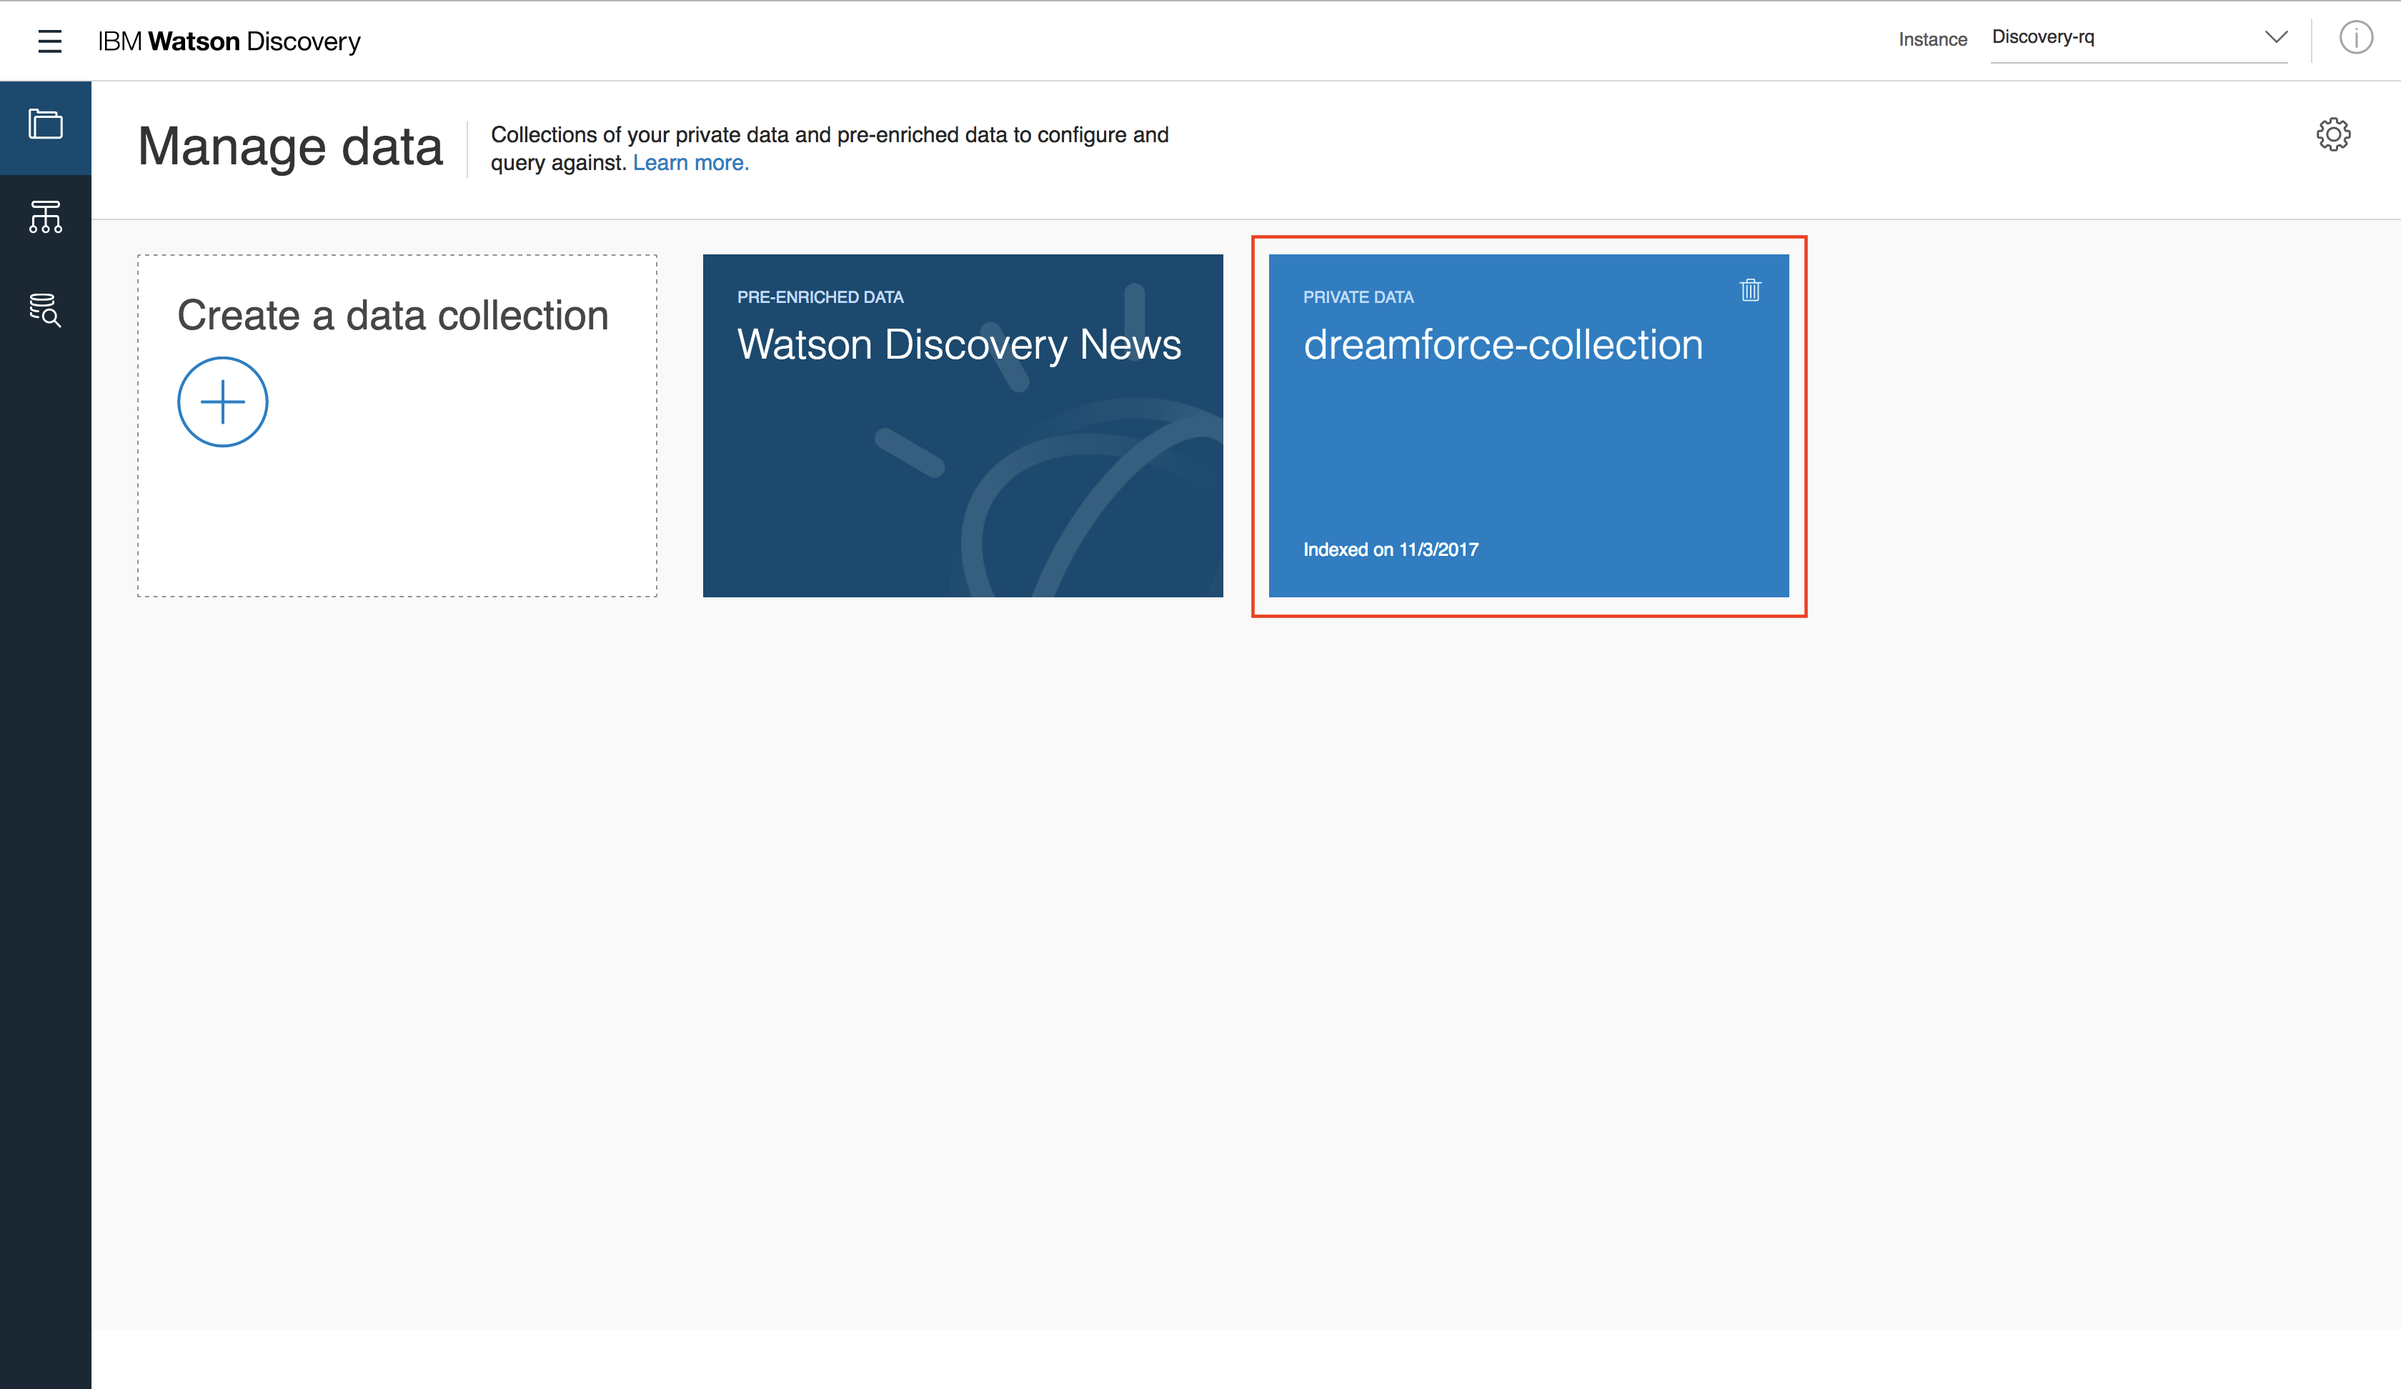
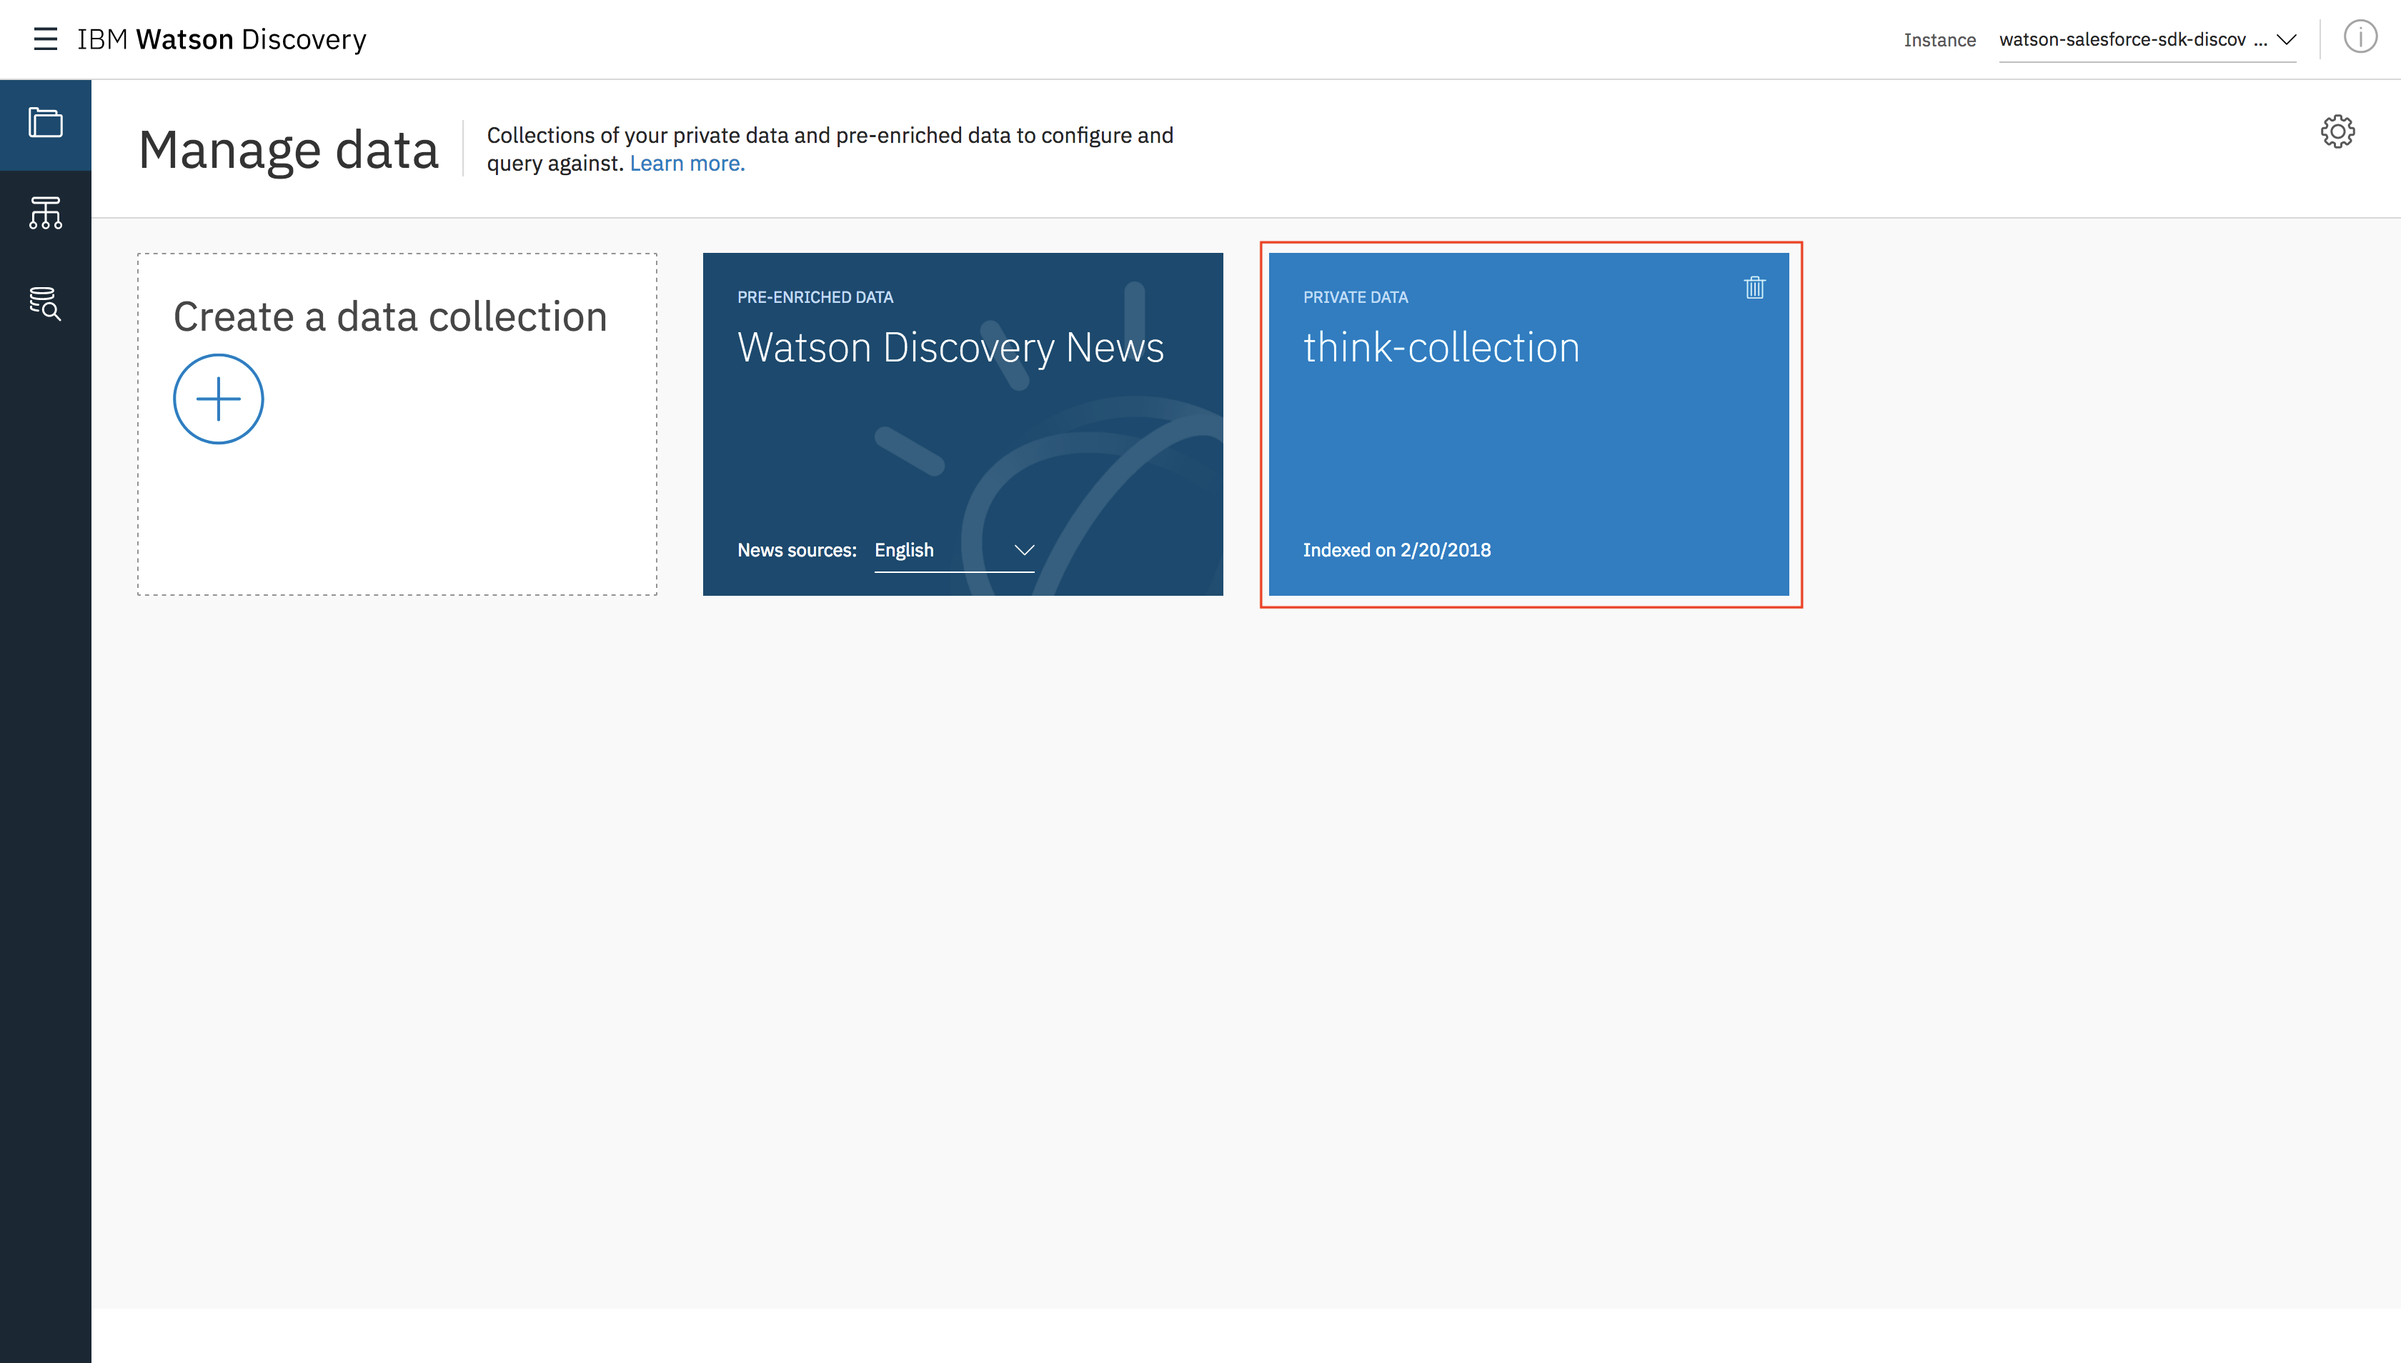
Update references to Dreamforce 2017

diff --git a/examples/discovery/sample_documents/niel_degrasse_tyson.html b/examples/discovery/sample_documents/niel_degrasse_tyson.html
@@ -1,0 +1,8 @@
+<html>
+  <title>
+    Neil deGrasse Tyson
+  </title>
+  <p>
+      Neil deGrasse Tyson (/dəˈɡræs/; born October 5, 1958) is an American astrophysicist, author, and science communicator. Since 1996, he has been the Frederick P. Rose Director of the Hayden Planetarium at the Rose Center for Earth and Space in New York City. The center is part of the American Museum of Natural History, where Tyson founded the Department of Astrophysics in 1997 and has been a research associate in the department since 2003. Born and raised in New York City, Tyson became interested in astronomy at the age of nine after a visit to the Hayden Planetarium. After graduating from the Bronx High School of Science, where he was editor-in-chief of the Physical Science Journal, he completed a bachelor's degree in physics at Harvard University in 1980. After receiving a master's degree in astronomy at the University of Texas at Austin in 1983, he earned his master's (1989) and doctorate (1991) in astrophysics at Columbia University. For the next three years, he was a postdoctoral research associate at Princeton University. In 1994, he joined the Hayden Planetarium as a staff scientist and the Princeton faculty as a visiting research scientist and lecturer. In 1996, he became director of the planetarium and oversaw its $210-million reconstruction project, which was completed in 2000. From 1995 to 2005, Tyson wrote monthly essays in the "Universe" column for Natural History magazine, some of which were later published in his books Death by Black Hole (2007) and Astrophysics for People in a Hurry (2017). During the same period, he wrote a monthly column in Star Date magazine, answering questions about the universe under the pen name "Merlin". Material from the column appeared in his books Merlin's Tour of the Universe (1998) and Just Visiting This Planet (1998). Tyson served on a 2001 government commission on the future of the U.S. aerospace industry, and on the 2004 Moon, Mars and Beyond commission. He was awarded the NASA Distinguished Public Service Medal in the same year. From 2006 to 2011, he hosted the television show NOVA ScienceNow on PBS. Since 2009, Tyson hosted the weekly podcast StarTalk. A spin-off, also called StarTalk, began airing on National Geographic in 2015. In 2014, he hosted the television series Cosmos: A Spacetime Odyssey, a successor to Carl Sagan's 1980 series Cosmos: A Personal Voyage.[1] The U.S. National Academy of Sciences awarded Tyson the Public Welfare Medal in 2015 for his "extraordinary role in exciting the public about the wonders of science".[2]
+  </p>
+</html>

diff --git a/examples/discovery/sample_documents/ginni_rometty.html b/examples/discovery/sample_documents/ginni_rometty.html
@@ -1,20 +1,8 @@
 <html>
-<title>
-  Ginni Rometty
-</title>
-<h1>
-  Chairman, President & CEO, IBM
-</h1>
-<p>
-  Ginni Rometty began her career with IBM in 1981 in Detroit. Since then she has held a series of leadership positions, most
-  recently as senior vice president and group executive, IBM sales, marketing, and strategy. Earlier she served as senior
-  vice president, IBM Global Business Services, where she led the successful integration of PricewaterhouseCoopers Consulting.
-  This acquisition was the largest in professional services history, creating a global team of more than 100,000 business
-  consultants and services experts. Mrs. Rometty serves on the Council on Foreign Relations, the board of trustees of Northwestern
-  University, and the board of overseers and board of managers of Memorial Sloan-Kettering Cancer Center. She holds a Bachelor
-  of Science degree, with high honors, in computer science and electrical engineering from Northwestern University. IBM is
-  a cognitive solutions and cloud platform company that leverages the power of innovation, data and expertise to improve
-  business and society.
-</p>
-
+  <title>
+    Ginni Rometty
+  </title>
+  <p>
+    Virginia Marie "Ginni" Rometty (born July 29, 1957)[4][5] is an American business executive. She is the current chairman, president, and CEO of IBM, and the first woman to head the company.[6][7] Prior to becoming president and CEO in January 2012, she held the positions of senior vice president and group executive for sales, marketing, and strategy at IBM. She joined IBM as a systems engineer in 1981. Rometty's tenure as CEO has been marked by prestigious awards including by Bloomberg who named her among the 50 Most Influential People in the World,[8][9][10] and Fortune naming her among the "50 Most Powerful Women in Business" for ten consecutive years.[11][12] Her tenure as CEO has been met by criticism related to executive compensation, outsourcing,[13][14] and IBM's 23 consecutive quarters of revenue decline.[15]
+  </p>
 </html>

diff --git a/examples/discovery/sample_documents/salman_khan.html b/examples/discovery/sample_documents/salman_khan.html
@@ -1,0 +1,8 @@
+<html>
+  <title>
+    Salman Khan
+  </title>
+  <p>
+      Salman Khan (born October 11, 1976) is an American educator and entrepreneur who founded the Khan Academy, a free online education platform and an organization with which he has produced over 6,500 video lessons teaching a wide spectrum of academic subjects, originally focusing on mathematics and sciences.[2] He is also the founder of Khan Lab School, a brick-and-mortar school associated with Khan Academy.[3] As of December 2016, the Khan Academy channel on YouTube has more than 3.6 million subscribers and the Khan Academy videos have been viewed more than 1 billion times.[4] In 2012, Time named Salman Khan in its annual list of the 100 most influential people in the world.[5] Forbes magazine featured Khan on its cover with the story "$1 Trillion Opportunity".[6]
+  </p>
+</html>

diff --git a/examples/discovery/sample_documents/michio_kaku.html b/examples/discovery/sample_documents/michio_kaku.html
@@ -1,0 +1,8 @@
+<html>
+  <title>
+    Michio Kaku
+  </title>
+  <p>
+      Michio Kaku (/ˈmiːtʃioʊ ˈkɑːkuː/; born 1947) is an American theoretical physicist, futurist, and popularizer of science. He is professor of theoretical physics at the City College of New York and CUNY Graduate Center. Kaku has written several books about physics and related topics, has made frequent appearances on radio, television, and film, and writes online blogs and articles. He has written three New York Times best sellers: Physics of the Impossible (2008), Physics of the Future (2011), and The Future of the Mind (2014). Kaku has hosted several TV specials for the BBC, the Discovery Channel, the History Channel, and the Science Channel.
+  </p>
+</html>

diff --git a/examples/discovery/sample_documents/lisa_ling.html b/examples/discovery/sample_documents/lisa_ling.html
@@ -1,0 +1,8 @@
+<html>
+  <title>
+    Lisa Ling
+  </title>
+  <p>
+      Lisa J. Ling (born August 30, 1973) is an American journalist, television presenter, and author. She is currently the host of This Is Life with Lisa Ling on CNN. She is the former host of Our America with Lisa Ling on OWN: The Oprah Winfrey Network, former co-host of ABC's The View (from 1999–2002), host of National Geographic Explorer, reporter on Channel One News, and special correspondent for The Oprah Winfrey Show and CNN. She was the host of reality television show The Job. Ling is the older sister of journalist Laura Ling.
+  </p>
+</html>

diff --git a/examples/discovery/README.md b/examples/discovery/README.md
@@ -79,7 +79,7 @@ IBMDiscoveryV1Models.QueryOptions options
   = new IBMDiscoveryV1Models.QueryOptionsBuilder()
     .environmentId('system')
     .collectionId('news')
-    .naturalLanguageQuery('Dreamforce 2017')
+    .naturalLanguageQuery('IBM Think 2018')
     .count(5)
     .build();
 IBMDiscoveryV1Models.QueryResponse response = discovery.query(options);
@@ -112,7 +112,7 @@ IBMDiscoveryV1Models.QueryOptions options
   = new IBMDiscoveryV1Models.QueryOptionsBuilder()
     .environmentId('system')
     .collectionId('news')
-    .naturalLanguageQuery('Dreamforce 2017')
+    .naturalLanguageQuery('IBM Think 2018')
     .count(5)
     .build();
 IBMDiscoveryV1Models.QueryResponse response = discovery.query(options);
@@ -134,8 +134,8 @@ IBMDiscoveryV1 discovery = new IBMDiscoveryV1(IBMDiscoveryV1.VERSION_DATE_2017_0
 IBMDiscoveryV1Models.CreateCollectionOptions options 
   = new IBMDiscoveryV1Models.CreateCollectionOptionsBuilder()
     .environmentId('ENVIRONMENT_ID') // enter your environment ID here!
-    .name('dreamforce-collection')
-    .description('Collection created at Dreamforce 2017')
+    .name('think-collection')
+    .description('My custom collection')
     .build();
 IBMDiscoveryV1Models.Collection response = discovery.createCollection(options);
 ```
@@ -144,19 +144,19 @@ IBMDiscoveryV1Models.Collection response = discovery.createCollection(options);
 
 If you print out your response object, you should see the details of your newly created collection. Like the environment ID, be sure to keep a note of the returned collection ID, as it will be used when uploading documents and querying. If you'd like extra verification that this worked, head back over to the Discovery tooling. This is a visual way to add and query your Discovery documents on the IBM Cloud platform. You can click [here](https://console.bluemix.net/dashboard/apps/) and then click on your Discovery service and the "Launch tool" button to open up the tooling. If you need to log in, remember to use the credentials in the "Setup" section of this lab.
 
-Once you get there, you should see the default Discovery News collection and your new collection named "dreamforce-collection".
+Once you get there, you should see the default Discovery News collection and your new collection named "think-collection".
 
 ![New collection](readme_images/new_collection.png "New collection")
 
 ### 5. Uploading Documents
-With our new collection, we're now going to upload some documents to it to be able to analyze them. If you look in the `examples/discovery/sample_documents` folder, you'll see that we've provided 10 sample documents, each containing the bio of a Dreamforce 2017 speaker pulled from the Dreamforce website. These are what we'll be using to populate our collection.
+With our new collection, we're now going to upload some documents to it to be able to analyze them. If you look in the `examples/discovery/sample_documents` folder, you'll see that we've provided 5 sample documents, each containing the bio of an IBM Think 2018 speaker. These are what we'll be using to populate our collection.
 
 The easiest way to upload a small set of local documents is to use the tooling, which allows you to drag-and-drop a set of documents into your collection. This functionality is available through the SDK, allowing developers the ablity to upload documents programmatically or to create their own upload interfaces, but for the purpose of this lab, we're going to go with the simpler route.
 
-In the tooling page where you see the Discovery News collection and your custom "dreamforce-collection", click on your custom collection. From here simply grab the 10 sample documents and drag them into your browser window:
+In the tooling page where you see the Discovery News collection and your custom "think-collection", click on your custom collection. From here simply grab the 5 sample documents and drag them into your browser window:
 
 <p align="center">
-  <img src="http://g.recordit.co/cpbD6TSvhU.gif" alt="add documents" />
+  <img src="readme_images/upload_documents.gif" alt="add documents" />
 </p>
 
 After a little bit of processing, you should be taken to the following page, which confirms that the documents have been successfully processed. From here, you can also look at some extracted insights from your data and view the data schema or build queries using the tabs on the left sidebar.
@@ -164,7 +164,7 @@ After a little bit of processing, you should be taken to the following page, whi
 ![Add documents result](readme_images/add_documents_result.png "Add documents result")
 
 ### 6. Querying our Custom Data
-In our case, we're going to make a query using the SDK again, this time using the Discovery Query Language. Our goal will be to pick out documents which contain the `entity` Harvard, which should return to us the speakers who have some connection to the university. To make things easier to digest, we'll filter for just the extracted title of each document, using dot notation to navigate the full JSON response. Paste the following into your developer console, again making sure to substitute your personal environment and collection IDs:
+In our case, we're going to make a query using the SDK again, this time using the Discovery Query Language. Our goal will be to pick out documents which contain the `entity` IBM, which should return to us the speakers who have some connection to the company. To make things easier to digest, we'll filter for just the extracted title of each document, using dot notation to navigate the full JSON response. Paste the following into your developer console, again making sure to substitute your personal environment and collection IDs:
 
 ```apex
 IBMDiscoveryV1 discovery = new IBMDiscoveryV1(IBMDiscoveryV1.VERSION_DATE_2017_09_01);
@@ -173,13 +173,15 @@ IBMDiscoveryV1Models.QueryOptions options
   = new IBMDiscoveryV1Models.QueryOptionsBuilder()
     .environmentId('ENVIRONMENT_ID')
     .collectionId('COLLECTION_ID')
-    .query('enriched_text.entities.text:Harvard')
+    .query('enriched_text.entities.text:IBM')
     .returnField(new List<String> { 'extracted_metadata.title' })
     .build();
 IBMDiscoveryV1Models.QueryResponse response = discovery.query(options);
+
+System.debug(response);
 ```
 
-Taking a look at the printed result, you should see 6 names returned. Sure enough, 5 of the returned speakers hold degrees from Harvard University, with Marc Benioff having the connection due to a mention in Harvard Business Review.
+Taking a look at the printed result, you should see 1 name returned, that name being Ginni Rometty, the IBM President and CEO.
 
 ## Conclusion
 Congratulations! You've completed the lab and hopefully feel more familiar with the Watson Salesforce SDK and navigating IBM Cloud to create and manage your Watson services. We hope that the new SDK will make it easy to integrate Watson into your Salesforce apps by offering a simple, consistent interface.
